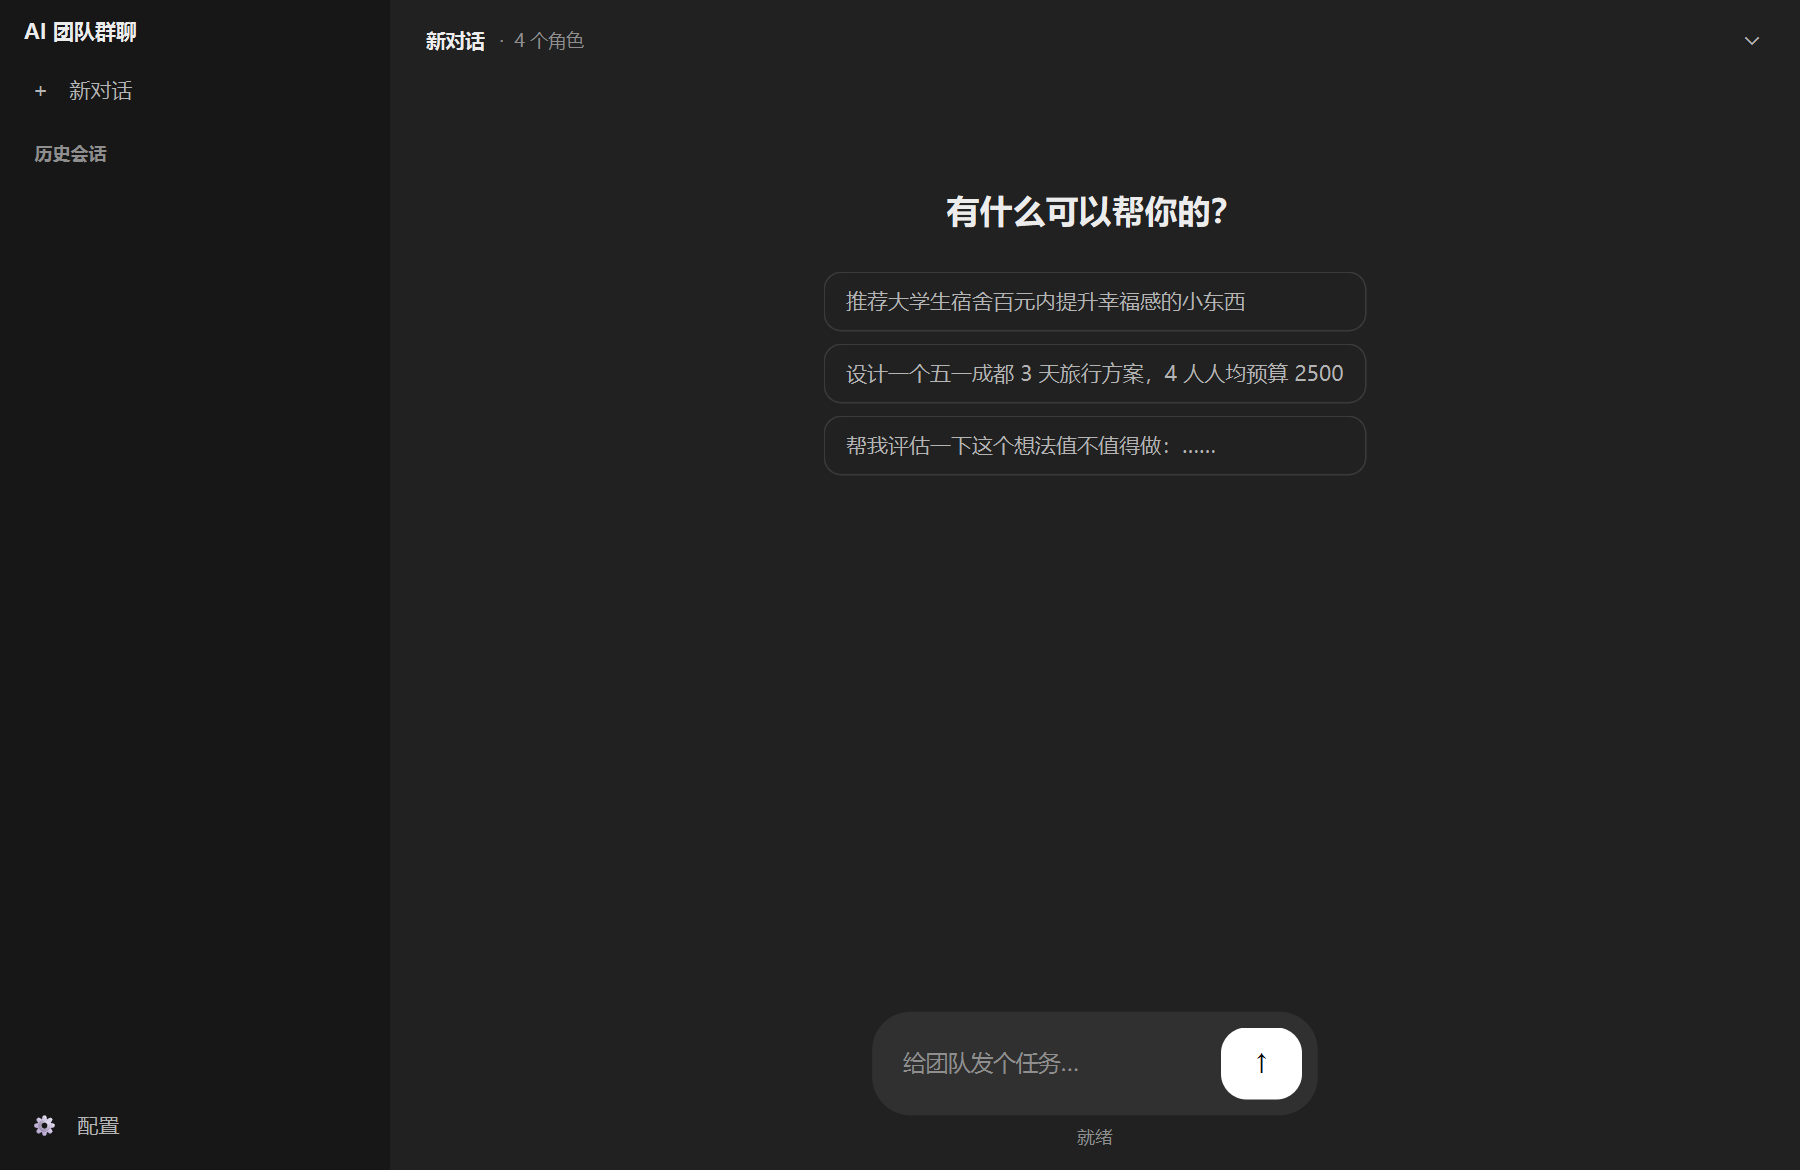
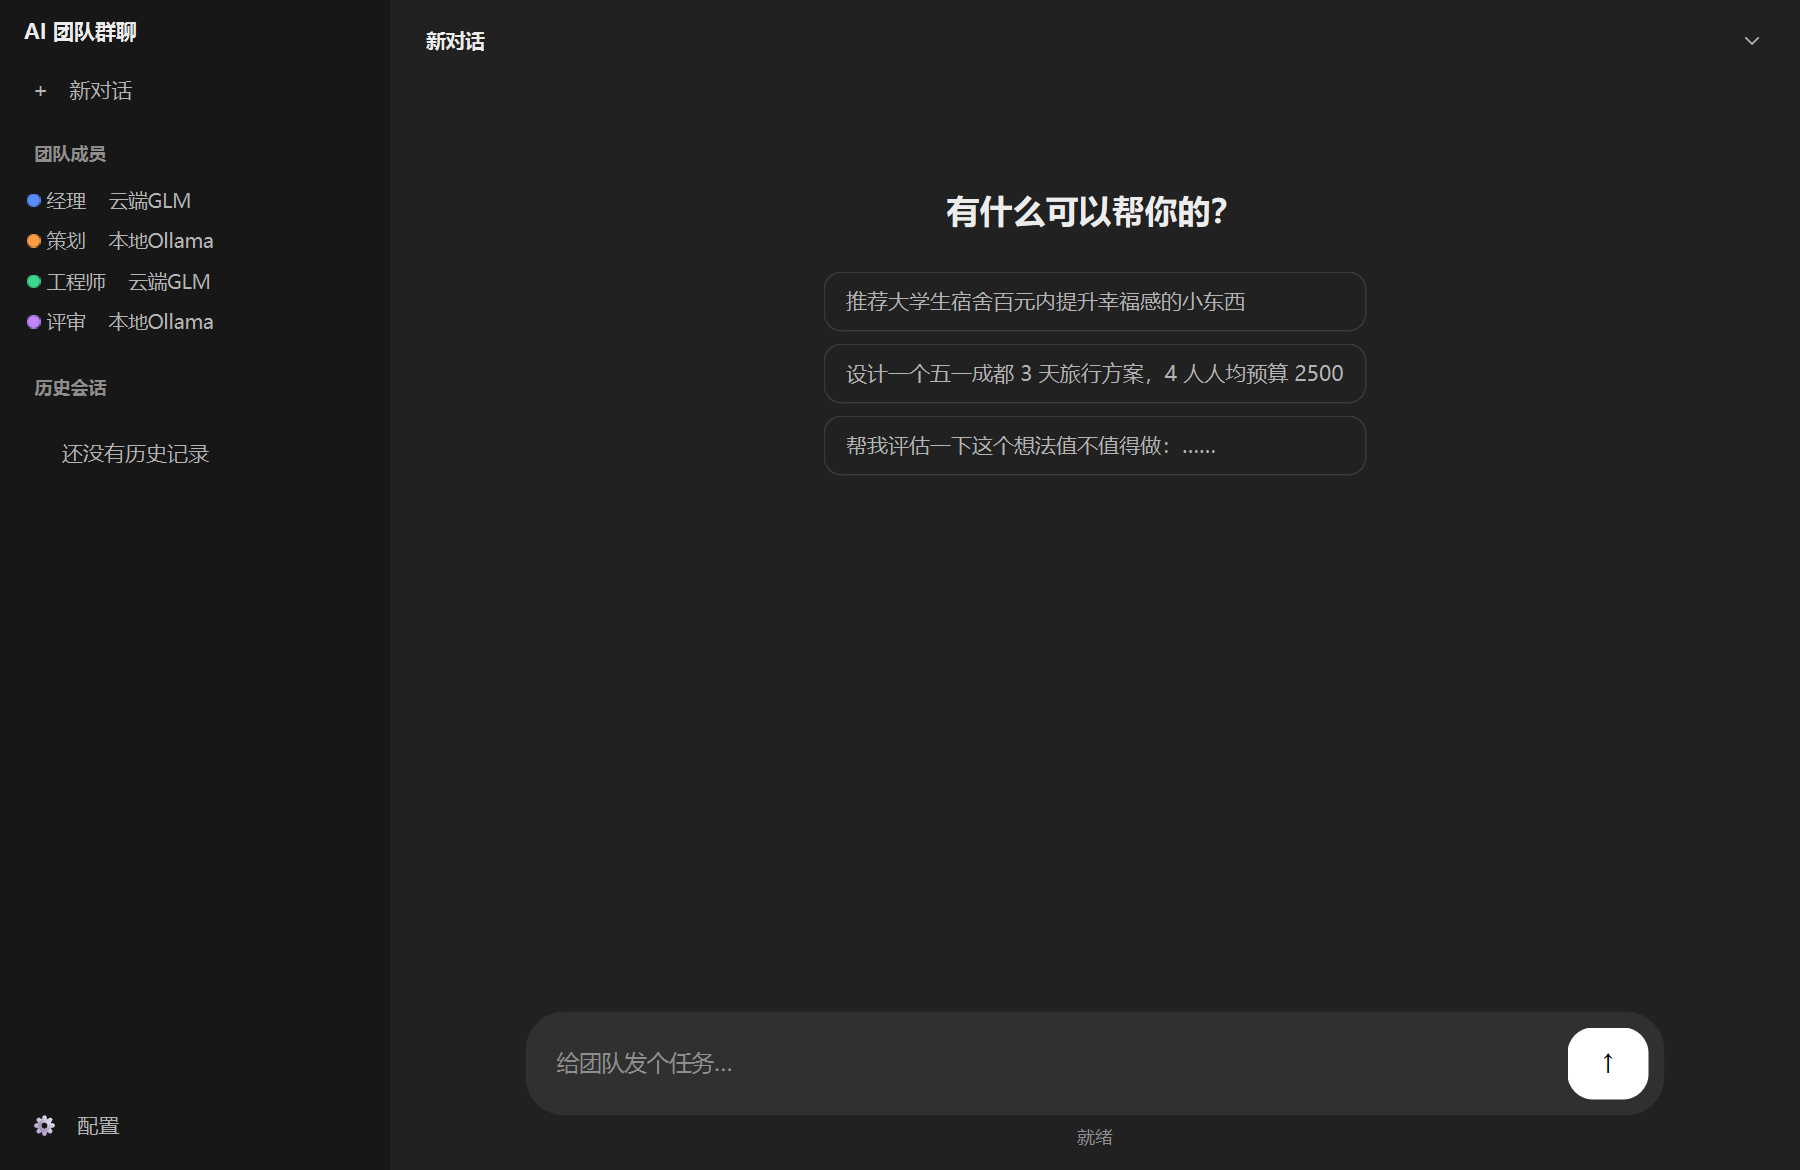
自己量截图，修掉四个界面缺陷
按要求"自己打开看看要不要改"，于是不靠感觉，直接量像素和坐标。

1. 侧栏 80% 是死区
   量出来侧栏 118 行格子里只有 8 行有内容（品牌/新对话/历史会话/配置），
   中间 95 行全空。原因是改成 ChatGPT 布局时我把角色徽章删了，
   侧栏就只剩四项。
   → 把团队成员列进侧栏，一举解决两个问题：填掉死区，团队一眼可见。

2. 团队构成看不见（功能倒退）
   上一版顶部有「经理·云端GLM」「策划·本地Ollama」徽章，重做时删掉了，
   只剩顶栏一句"· 4 个角色"加 tooltip。而这个应用的核心卖点就是"几个不同
   模型的 AI"，藏进 tooltip 等于没了。
   → 侧栏「团队成员」区直接列出每个角色和它的模型来源，点一下进配置。
   → 顶栏那句冗余的"· N 个角色"去掉，顶栏只留标题，更干净。

3. 内容列被挤成 1/3 宽（布局 bug）
   量坐标发现 AI 发言在 578 逻辑像素处，而 760px 的内容列本该从 345 开始。
   原因：QHBoxLayout 里三个 stretch=1（左弹簧、列、右弹簧）把宽度三等分，
   setMaximumWidth 只是上限、不是目标宽度。居中限宽不能靠 addStretch。
   → 改成在 resizeEvent 里按可用宽度算实际宽度再 setFixedWidth。

4. 用户气泡只有 132px 宽，20 个字被折成两行
   开了 wordWrap 的 QLabel，sizeHint() 会给出偏小的宽度，而气泡在
   QHBoxLayout 里只能拿到 sizeHint 宽度，于是过早折行。
   → 用 QFontMetrics 量出理想宽度并夹在上限内；字体改为代码里显式设置，
     保证"量出来的宽度"和"渲染用的字体"一致（QSS 的 font-size 要等 polish
     才生效，构造时量不准，所以 theme 里去掉 body 的字号规则）。
   修完「推荐大学生宿舍百元内提升幸福感的小东西」是完整一行。

另外给空的历史区加了句「还没有历史记录」占位，不再是一大块无解释的空白。

测试：5 个测试文件共 165 项断言全过。

diff --git a/desktop_app.py b/desktop_app.py
@@ -29,7 +29,7 @@ import os
 import sys
 
 from PySide6.QtCore import Qt, QThread, QTimer, Signal
-from PySide6.QtGui import QColor, QFont, QIcon, QPainter, QPixmap
+from PySide6.QtGui import QColor, QFont, QFontMetrics, QIcon, QPainter, QPixmap
 from PySide6.QtWidgets import (QAbstractItemView, QApplication, QCheckBox, QComboBox,
                                QDialog, QDialogButtonBox, QFormLayout, QFrame, QGroupBox,
                                QHBoxLayout, QLabel, QLineEdit, QListWidget,
@@ -98,6 +98,24 @@ def role_color(role: dict) -> str:
     return (role or {}).get("color") or theme.ROLE_COLORS[0]
 
 
+# 正文用显式字体：QSS 的 font-size 要等 polish 才生效，构造时量不准宽度，
+# 而气泡宽度正是靠字体度量算出来的，两边必须一致。
+BODY_FONT_PT = 11
+BUBBLE_TEXT_MAX = int(theme.CONTENT_MAX_WIDTH * 0.75) - 32
+
+
+def body_font() -> QFont:
+    return QFont("Microsoft YaHei UI", BODY_FONT_PT)
+
+
+def measure_text(text: str, limit: int = None) -> int:
+    """量一段文字的单行宽度（可夹上限）。"""
+    width = QFontMetrics(body_font()).horizontalAdvance(text or "")
+    if limit is not None:
+        width = min(width, limit)
+    return max(24, width)
+
+
 # ── 消息控件 ───────────────────────────────────────────────────
 class UserMessage(QWidget):
     """我的发言：右对齐圆角气泡。"""
@@ -113,6 +131,10 @@ class UserMessage(QWidget):
         inner = QVBoxLayout(bubble)
         inner.setContentsMargins(16, 10, 16, 10)
         body = label(text, "body", wrap=True, selectable=True)
+        body.setFont(body_font())
+        # 按内容定宽：否则 wordWrap 的 QLabel 会给出偏小的 sizeHint，
+        # 气泡被挤窄、文字过早折行。超过上限才交给 wordWrap 折。
+        body.setFixedWidth(measure_text(text, BUBBLE_TEXT_MAX))
         inner.addWidget(body)
         row.addWidget(bubble)
 
@@ -143,6 +165,7 @@ class AssistantMessage(QWidget):
         layout.addLayout(head)
 
         self.body = label("", "body", wrap=True, selectable=True)
+        self.body.setFont(body_font())
         self.body.setSizePolicy(QSizePolicy.Preferred, QSizePolicy.Minimum)
         layout.addWidget(self.body)
 
@@ -202,6 +225,33 @@ class NoticeMessage(QWidget):
         outer.addWidget(frame)
 
 
+class CenteredPane(QWidget):
+    """让内部控件水平居中并限宽。
+
+    注意：不能用 addStretch 来居中 —— QHBoxLayout 会把可用宽度按 stretch
+    因子平分，几个 stretch=1 就会把内容挤成 1/3 宽（setMaximumWidth 只是上限，
+    不是目标宽度）。所以这里在 resize 时按可用宽度算实际宽度。
+    """
+
+    def __init__(self, inner: QWidget, max_width: int = None,
+                 margin: int = 24, parent=None):
+        super().__init__(parent)
+        self._max_width = max_width or theme.CONTENT_MAX_WIDTH
+        self._margin = margin
+        self._inner = inner
+        row = QHBoxLayout(self)
+        row.setContentsMargins(0, 0, 0, 0)
+        row.setSpacing(0)
+        row.addStretch(1)
+        row.addWidget(inner)
+        row.addStretch(1)
+
+    def resizeEvent(self, event):
+        super().resizeEvent(event)
+        available = max(280, self.width() - self._margin * 2)
+        self._inner.setFixedWidth(min(self._max_width, available))
+
+
 class MessageArea(QScrollArea):
     """聊天区：可滚动的消息列，居中限宽。"""
 
@@ -218,17 +268,22 @@ class MessageArea(QScrollArea):
         outer.addStretch(1)
 
         self.column = QWidget()
-        self.column.setMaximumWidth(theme.CONTENT_MAX_WIDTH)
-        self.column.setSizePolicy(QSizePolicy.Preferred, QSizePolicy.Minimum)
+        self.column.setSizePolicy(QSizePolicy.Fixed, QSizePolicy.Minimum)
         self.messages = QVBoxLayout(self.column)
         self.messages.setContentsMargins(0, 0, 0, 0)
         self.messages.setSpacing(0)
         self.messages.addStretch(1)
-        outer.addWidget(self.column, stretch=1)
+        outer.addWidget(self.column)
         outer.addStretch(1)
 
         self.setWidget(container)
         self._empty_state = None
+
+    def resizeEvent(self, event):
+        super().resizeEvent(event)
+        # 内容列宽度按可用宽度算，别让弹簧把消息挤窄
+        available = max(280, self.viewport().width() - 48)
+        self.column.setFixedWidth(min(theme.CONTENT_MAX_WIDTH, available))
 
     # ── 内容 ──
     def _insert(self, widget: QWidget):
@@ -402,6 +457,15 @@ class Sidebar(QWidget):
         self.new_btn = button("＋   新对话", "ghost", self.new_chat.emit)
         root.addWidget(self.new_btn)
 
+        # 团队成员：这个应用的核心就是"几个不同模型的 AI"，
+        # 团队构成必须一眼可见，不能藏在 tooltip 里。
+        root.addWidget(label("团队成员", "section"))
+        self.team_box = QWidget()
+        self.team_layout = QVBoxLayout(self.team_box)
+        self.team_layout.setContentsMargins(0, 0, 0, 6)
+        self.team_layout.setSpacing(0)
+        root.addWidget(self.team_box)
+
         root.addWidget(label("历史会话", "section"))
         self.history = QListWidget()
         self.history.setSelectionMode(QAbstractItemView.SingleSelection)
@@ -410,12 +474,39 @@ class Sidebar(QWidget):
 
         root.addWidget(button("⚙   配置", "ghost", self.open_settings.emit))
 
+    def reload_roles(self, settings):
+        """按当前配置刷新团队成员列表。"""
+        while self.team_layout.count():
+            item = self.team_layout.takeAt(0)
+            widget = item.widget()
+            if widget:
+                widget.deleteLater()
+        for role in app_config.enabled_roles(settings):
+            row = QPushButton("%s    %s" % (
+                role.get("name") or "?",
+                SOURCE_SHORT.get(role.get("source", ""), "?")))
+            row.setProperty("role", "ghost")
+            row.setIcon(QIcon(dot_pixmap(role_color(role), 9)))
+            row.setStyleSheet("text-align: left; font-size: 12.5px; padding: 5px 8px;")
+            row.setToolTip("%s\n模型：%s\n\n点一下打开配置" % (
+                (role.get("system_prompt") or "")[:180],
+                role.get("model") or "未选"))
+            row.clicked.connect(self.open_settings.emit)
+            self.team_layout.addWidget(row)
+
     def _on_history_clicked(self, item):
         self.history_selected.emit(item.data(Qt.UserRole) or "")
 
     def reload_history(self, items: list):
         """按 今天 / 昨天 / 更早 分组，像 ChatGPT 那样。"""
         self.history.clear()
+        if not items:
+            # 没有历史时给一句说明，否则侧栏下半部分是一大块无解释的空白
+            hint = QListWidgetItem("   还没有历史记录")
+            hint.setFlags(Qt.NoItemFlags)
+            hint.setForeground(QColor(theme.TEXT_FAINT))
+            self.history.addItem(hint)
+            return
         today = datetime.date.today()
         groups = {"今天": [], "昨天": [], "更早": []}
         for item in items:
@@ -1007,8 +1098,6 @@ class MainWindow(QMainWindow):
         top_row.setSpacing(10)
         self.title_label = label("新对话", "role-name")
         top_row.addWidget(self.title_label)
-        self.team_label = label("", "faint")
-        top_row.addWidget(self.team_label)
         top_row.addStretch(1)
         self.more_btn = button("⋯", "ghost")
         self.more_btn.setFixedWidth(36)
@@ -1026,13 +1115,7 @@ class MainWindow(QMainWindow):
         column.addWidget(self.area, stretch=1)
 
         # 输入区：居中限宽，和正文对齐
-        bottom = QWidget()
-        bottom_row = QHBoxLayout(bottom)
-        bottom_row.setContentsMargins(24, 6, 24, 14)
-        bottom_row.setSpacing(0)
-        bottom_row.addStretch(1)
         wrap = QWidget()
-        wrap.setMaximumWidth(theme.CONTENT_MAX_WIDTH)
         wrap_column = QVBoxLayout(wrap)
         wrap_column.setContentsMargins(0, 0, 0, 0)
         wrap_column.setSpacing(6)
@@ -1043,18 +1126,16 @@ class MainWindow(QMainWindow):
         self.status = label("就绪", "faint")
         self.status.setAlignment(Qt.AlignCenter)
         wrap_column.addWidget(self.status)
-        bottom_row.addWidget(wrap, stretch=1)
-        bottom_row.addStretch(1)
+        bottom = CenteredPane(wrap, margin=24)
+        bottom.setContentsMargins(0, 6, 0, 14)
         column.addWidget(bottom)
 
         root.addWidget(content, stretch=1)
         self.setCentralWidget(central)
 
     def _refresh_team_label(self):
-        roles = app_config.enabled_roles(self.settings)
-        self.team_label.setText("·  %d 个角色" % len(roles))
-        names = "、".join(r.get("name") or "?" for r in roles)
-        self.team_label.setToolTip("参与讨论的角色：%s\n（点右上角 ⋯ 或侧栏「配置」可修改）" % names)
+        """刷新侧栏的团队成员列表。"""
+        self.sidebar.reload_roles(self.settings)
 
     def _reload_sidebar(self):
         self.sidebar.reload_history(list_history())

diff --git a/theme.py b/theme.py
@@ -67,7 +67,7 @@ QWidget#Content {{ background: {MAIN}; }}
 QLabel {{ color: {TEXT}; background: transparent; }}
 QLabel[role="brand"] {{ font-size: 14px; font-weight: 600; }}
 QLabel[role="role-name"] {{ font-size: 13px; font-weight: 600; }}
-QLabel[role="body"] {{ font-size: 14.5px; color: {TEXT}; }}
+QLabel[role="body"] {{ color: {TEXT}; }}
 QLabel[role="dim"] {{ font-size: 12.5px; color: {TEXT_DIM}; }}
 QLabel[role="faint"] {{ font-size: 12px; color: {TEXT_FAINT}; }}
 QLabel[role="section"] {{
